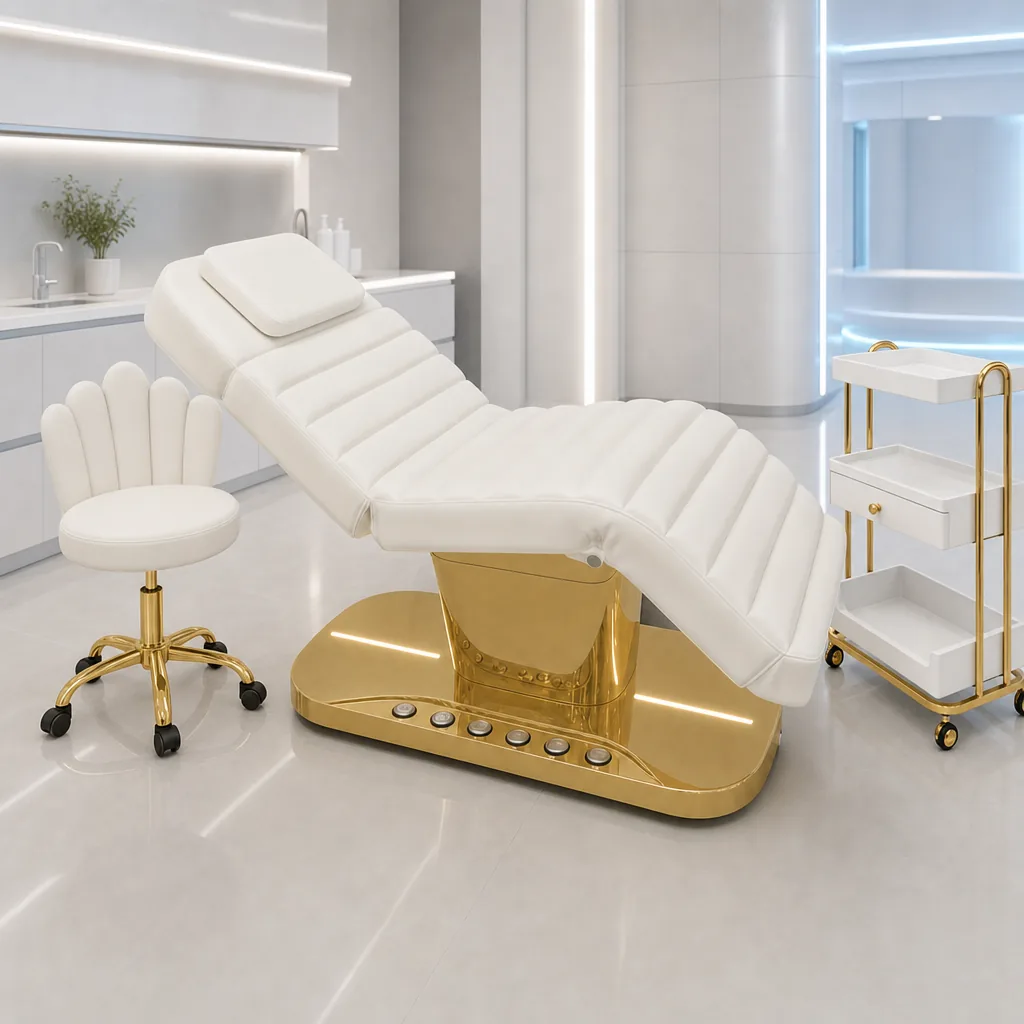
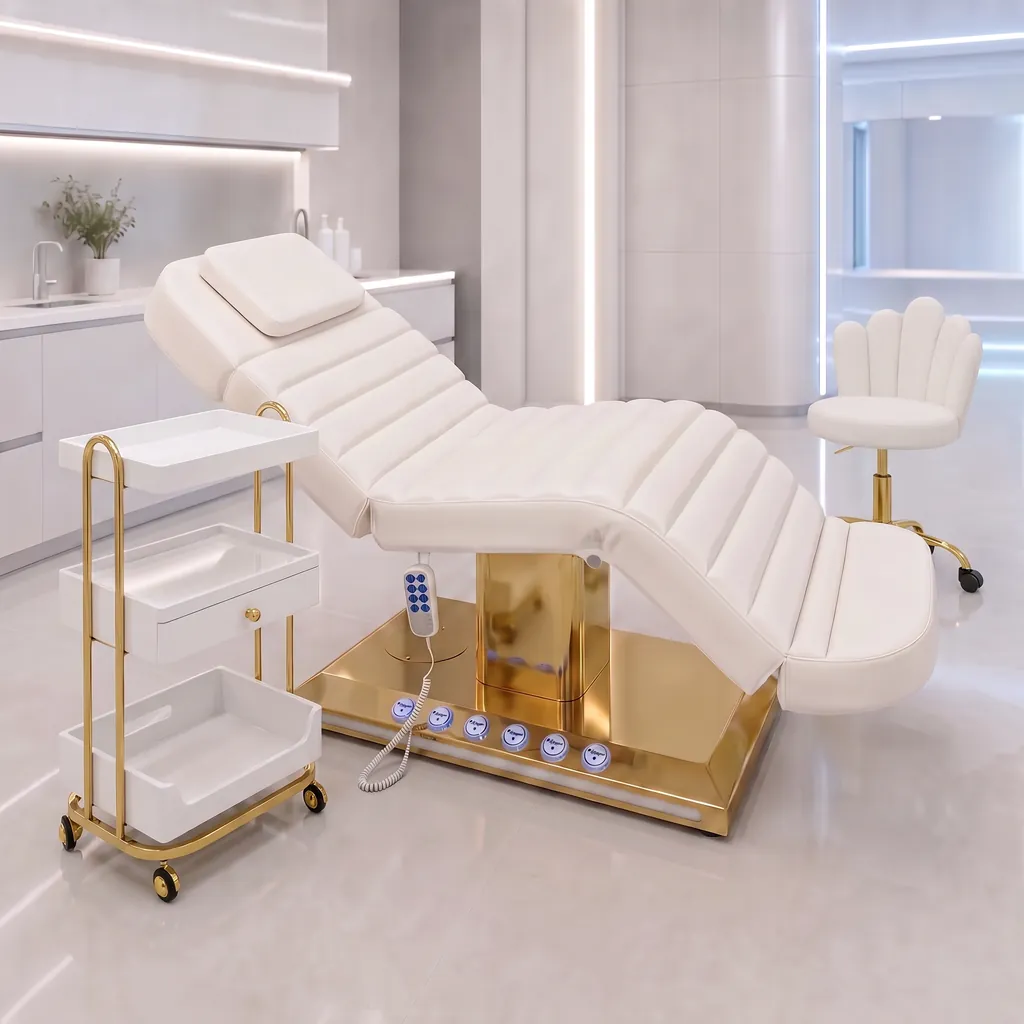
cambios 28-08 2

diff --git a/_lib/og-cards.js b/_lib/og-cards.js
@@ -80,7 +80,7 @@ const PAGINAS = [
   {
     salida: "luma-gold.jpg",
     tratamiento: "foto",
-    src: "images/luma-gold/luma-gold-2.webp", // 2.33
+    src: "images/luma-gold/banner-luma-gold-2.webp", // 1.79
     alt: "Set LUMA Gold en un consultorio: camilla eléctrica de base dorada, silla profesional y carrito LUMA Cart Gold.",
   },
   {
